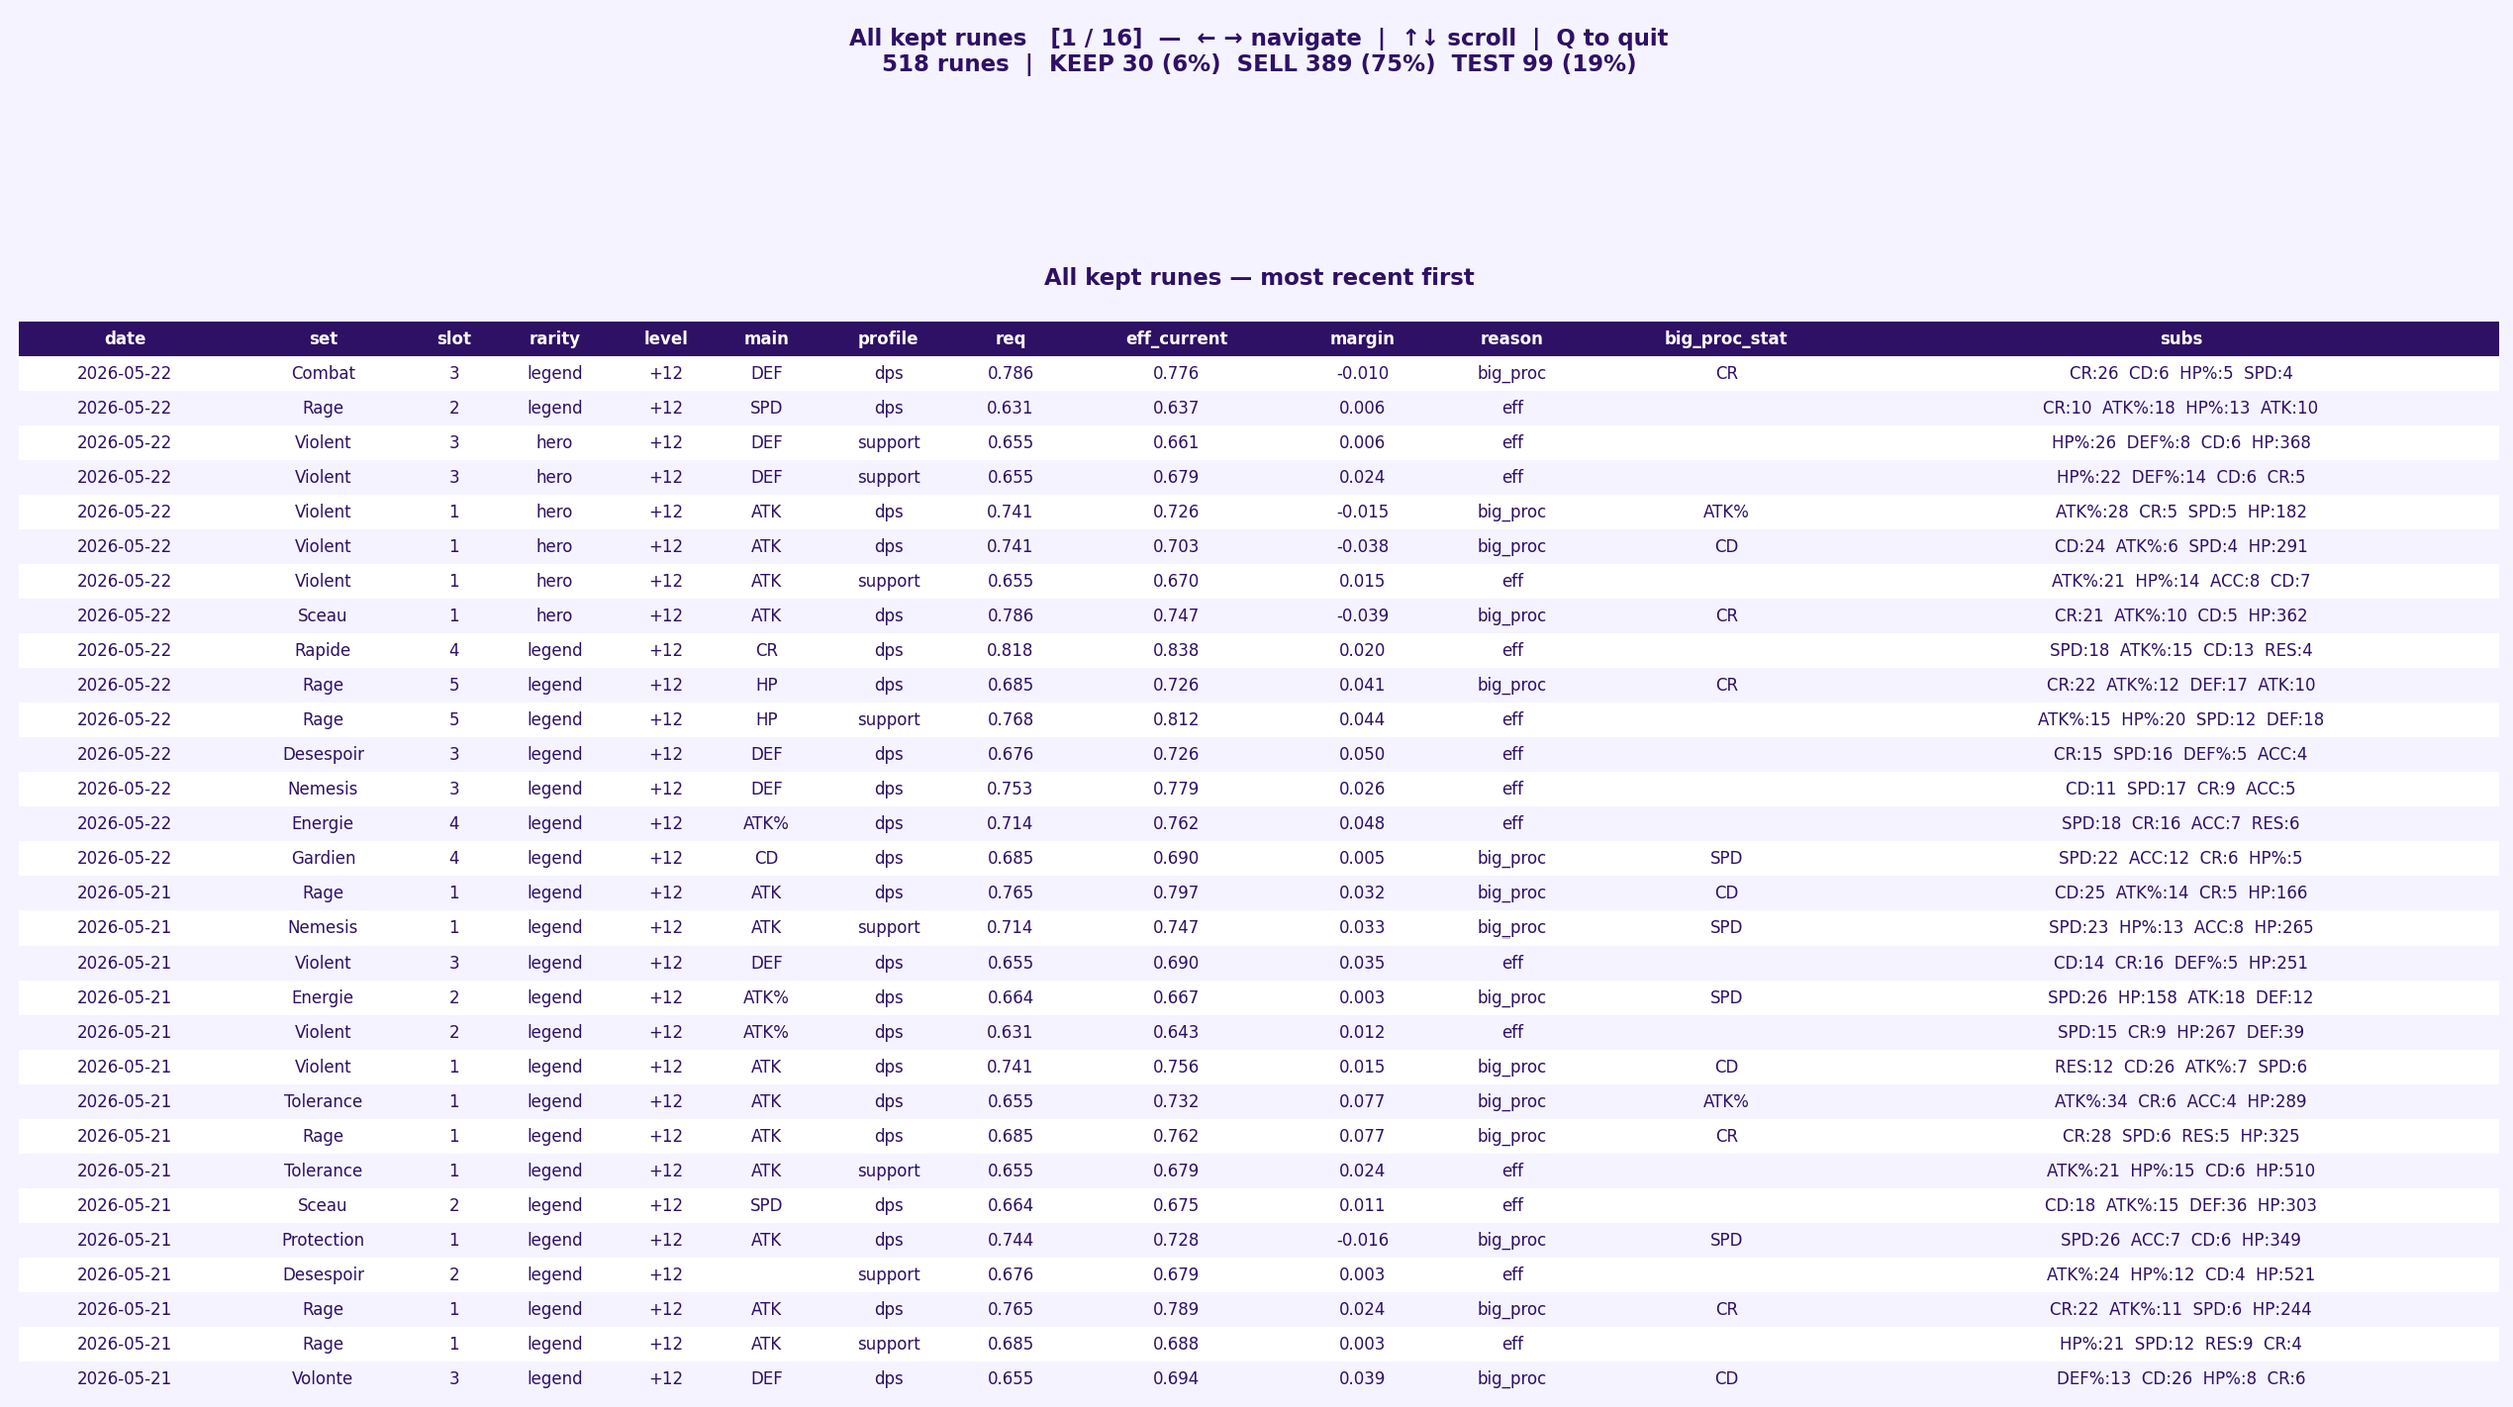
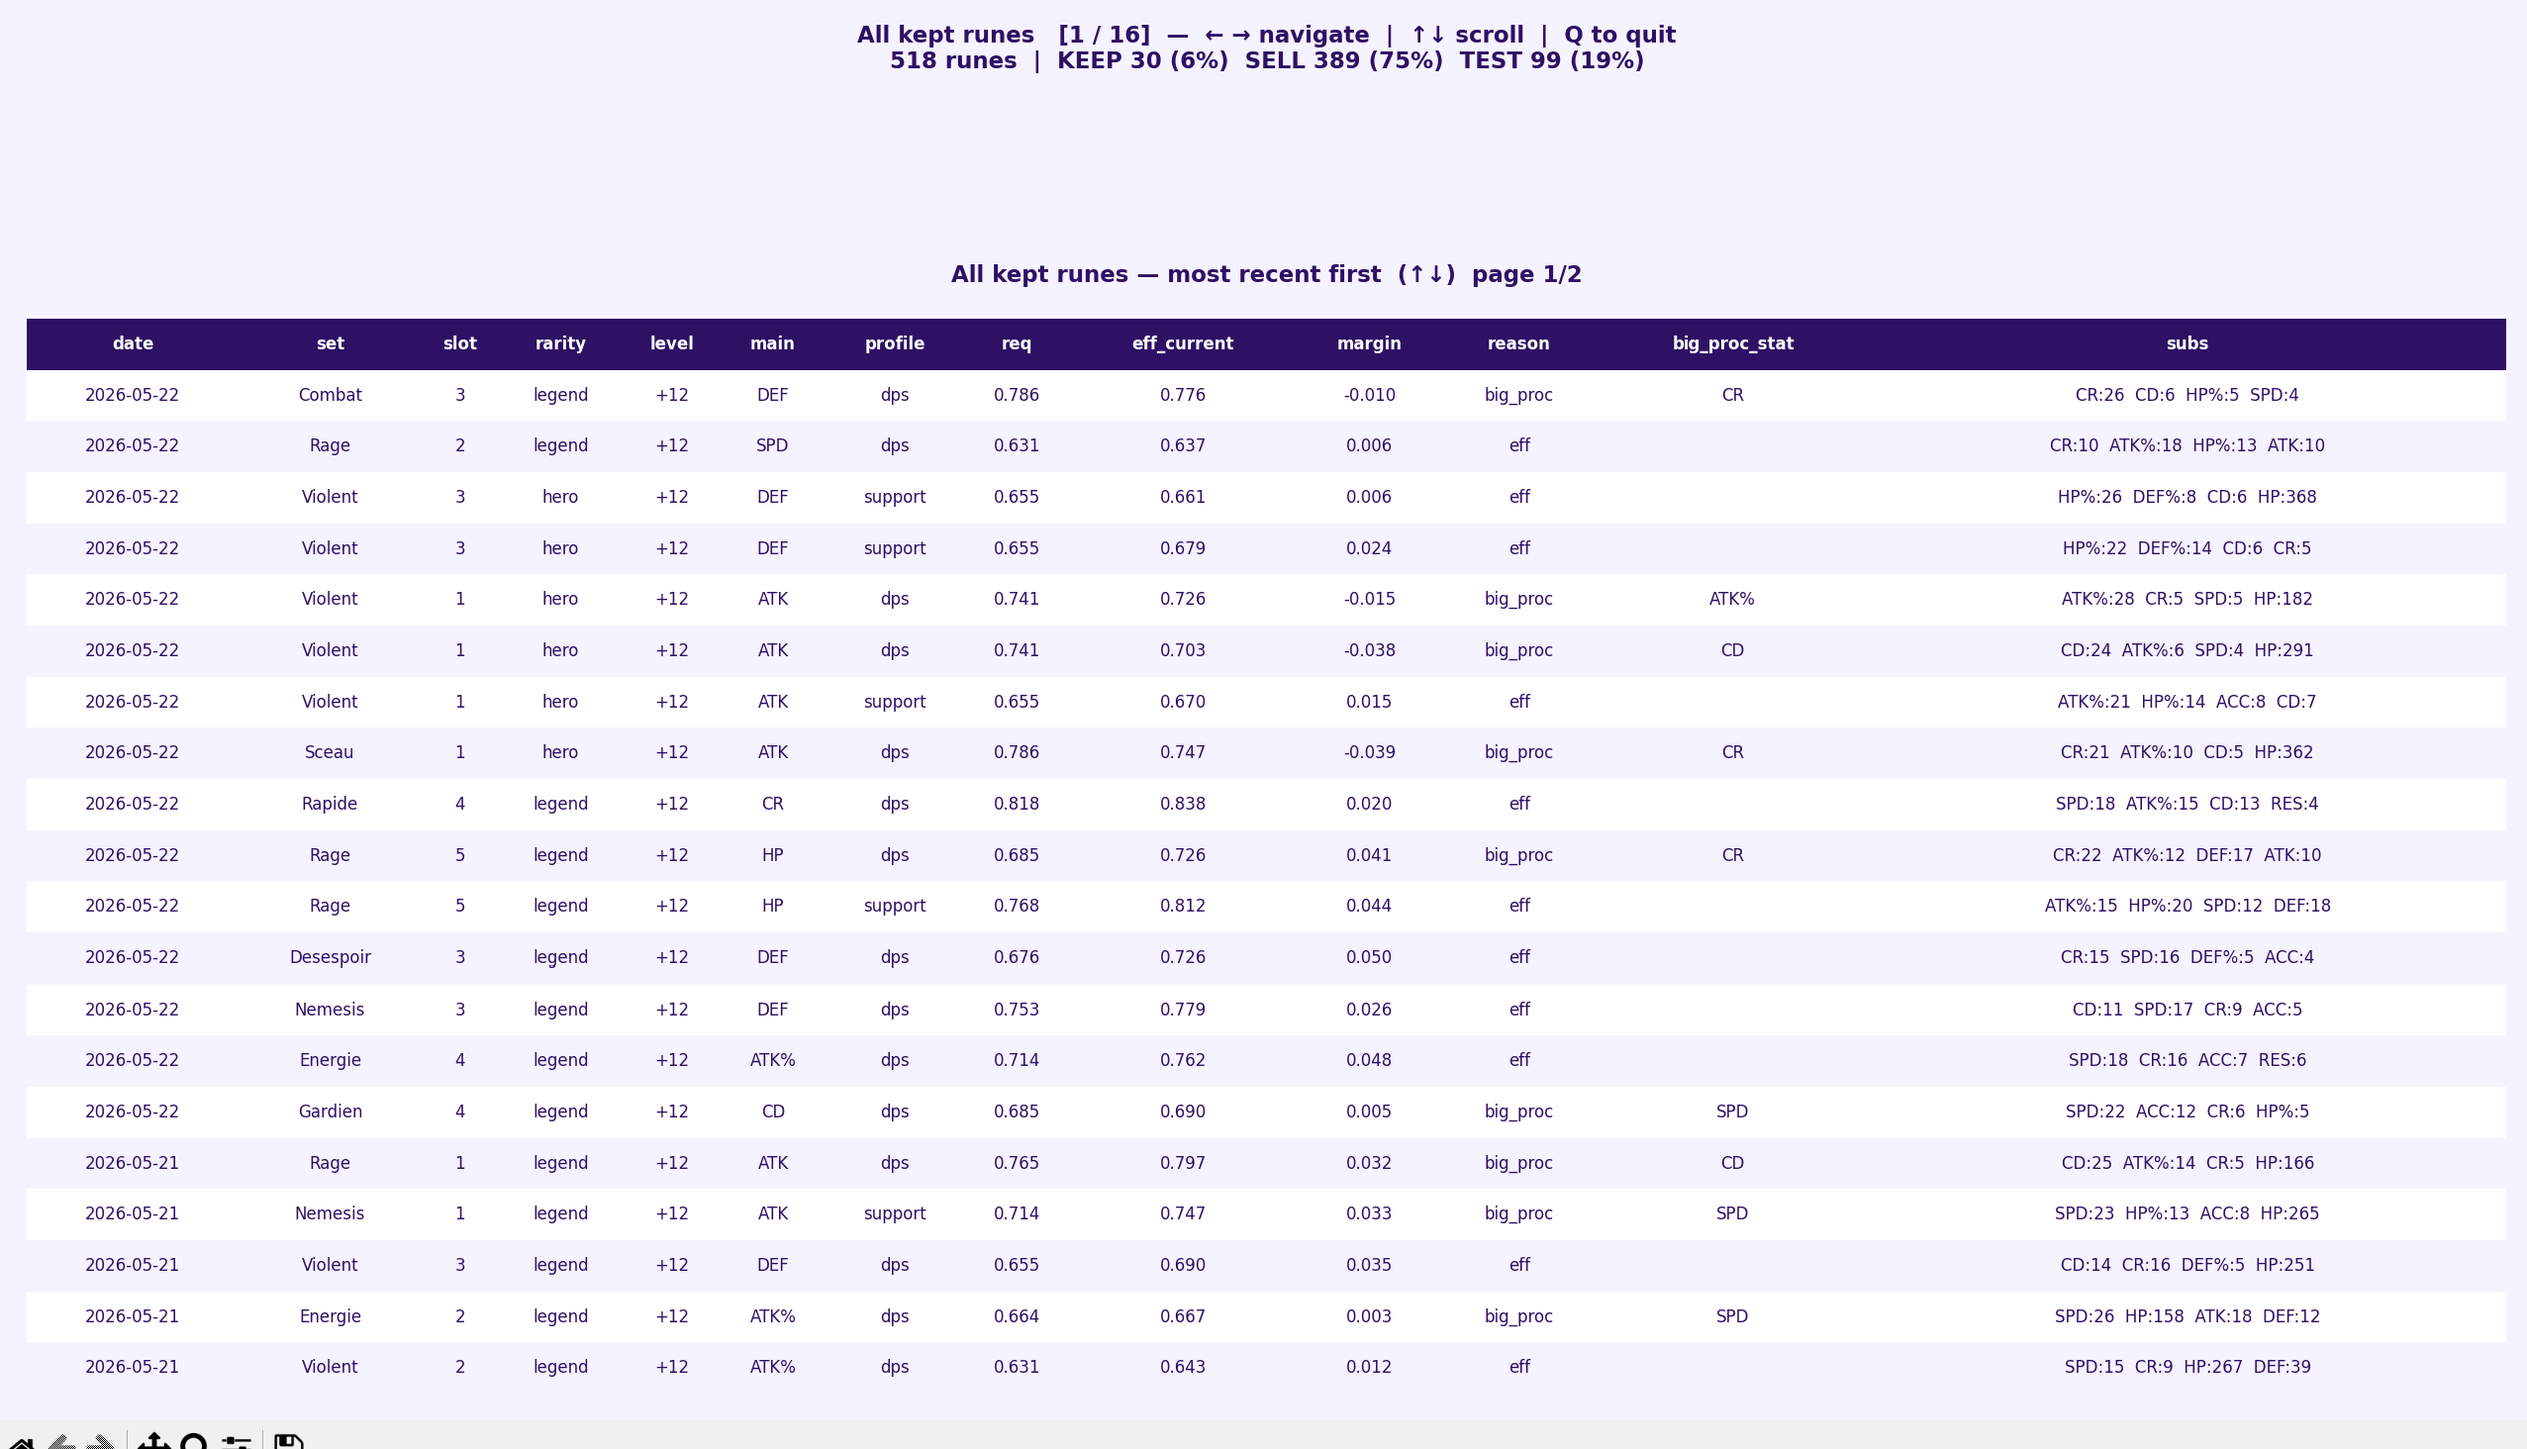
fix pagination

diff --git a/rune_ocr_analyzer/rune_analysis.py b/rune_ocr_analyzer/rune_analysis.py
@@ -922,7 +922,7 @@ def chart_volume_week(fig, df, kept):
     _volume_chart(ax, vol_df, "week", "Volume runes traitées — par semaine")
 
 
-_ALL_KEEPS_RPP = 30  # rows per page
+_ALL_KEEPS_RPP = 20  # rows per page
 
 
 def chart_all_keeps(
